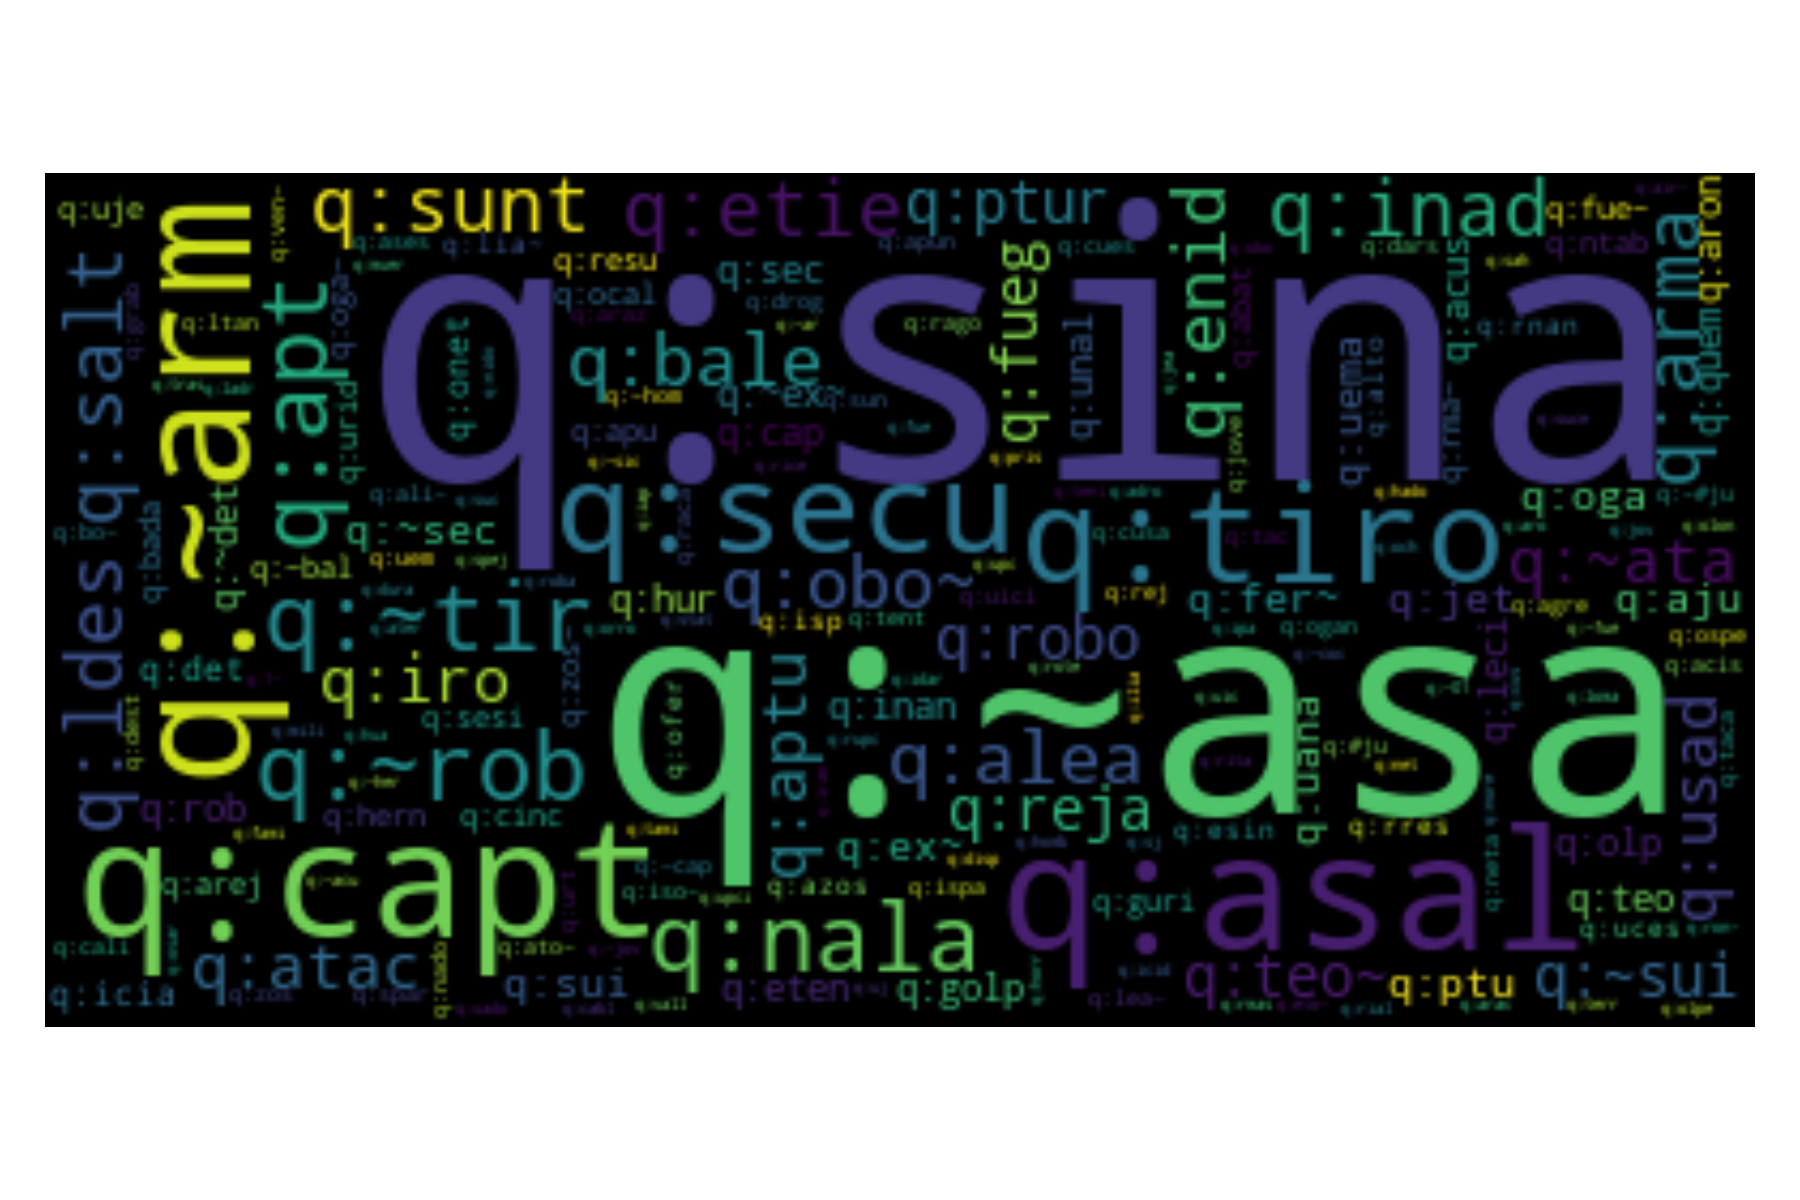
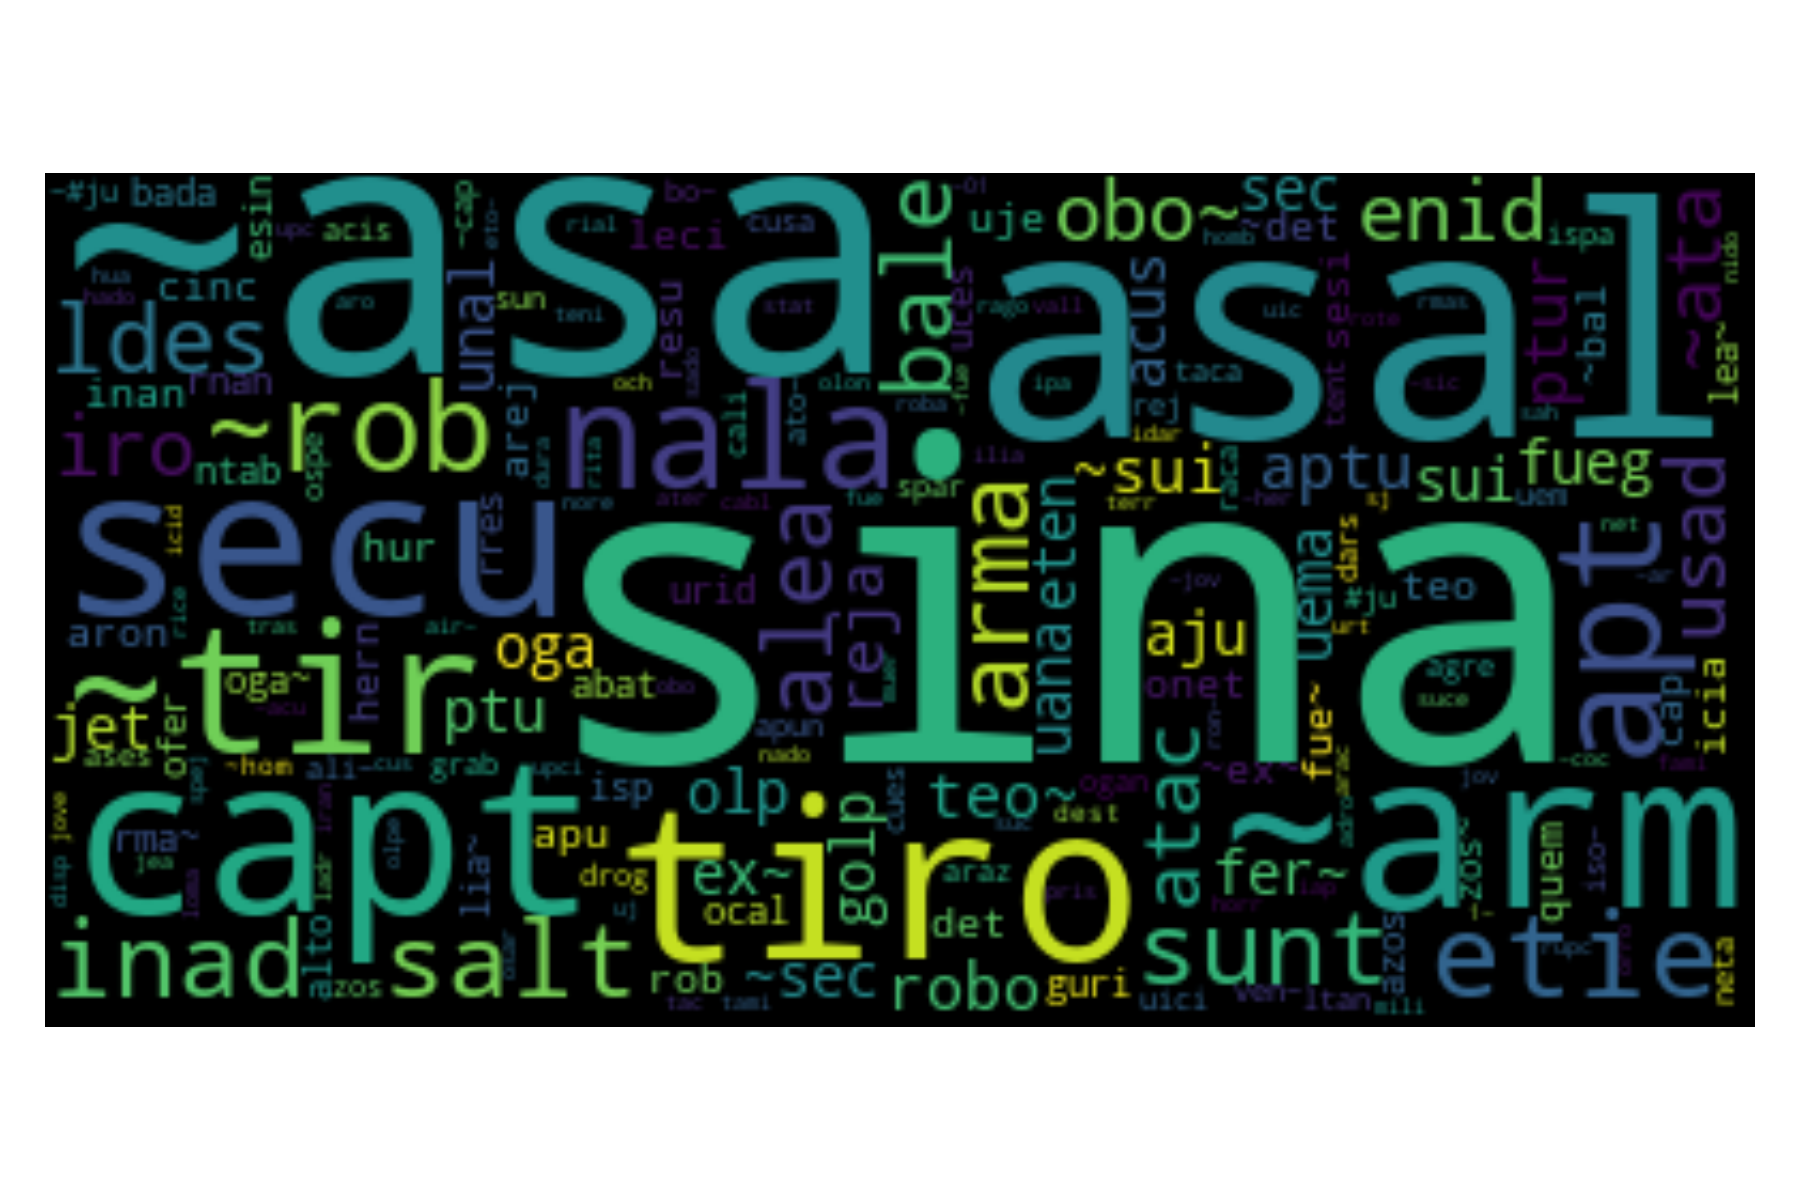
Descripcion (2)

diff --git a/analisis.md b/analisis.md
@@ -15,6 +15,31 @@ positiva y la segunda nube contienen los q-gramas más significativos. Estos tok
 seleccionados de acuerdo al coeficiente calculado por la máquina de soporte vectorial 
 entrenada en el conjunto de datos creado.
 
+```python
+D = list(tweet_iterator('delitos_train.json'))
+bow = load_bow(lang='es')
+X = bow.transform([x['text'] for x in D])
+m = LinearSVC().fit(X, [x['label'] for x in D])
+w = m.coef_[0]
+```
+
+```python 
+_ = {bow.id2token[id]: _w * w[id] for id, _w in bow.token_weight.items() if w[id] > 0}
+words = {k: v for k, v in _.items() if k[:2] == 'q:'}
+word_cloud = WordCloud().generate_from_frequencies(words)
+plt.imshow(word_cloud, interpolation='bilinear')
+```
+
 ![Palabras asociadas](/Delitos/assets/images/pos_words.png)
 
+```python 
+_ = {bow.id2token[id]: _w * w[id] for id, _w in bow.token_weight.items() if w[id] > 0}
+words = {k[2:]: v for k, v in _.items() if k[:2] != 'q:'}
+word_cloud = WordCloud().generate_from_frequencies(words)
+plt.imshow(word_cloud, interpolation='bilinear')
+```
+
 ![q-grams asociados](/Delitos/assets/images/pos_qgrams.png)
+
+
+
